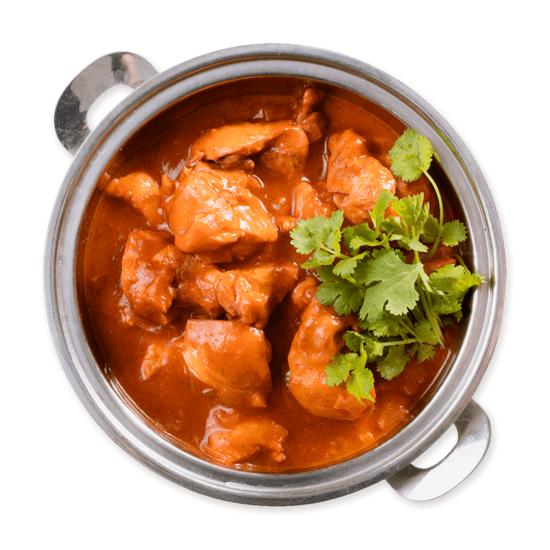
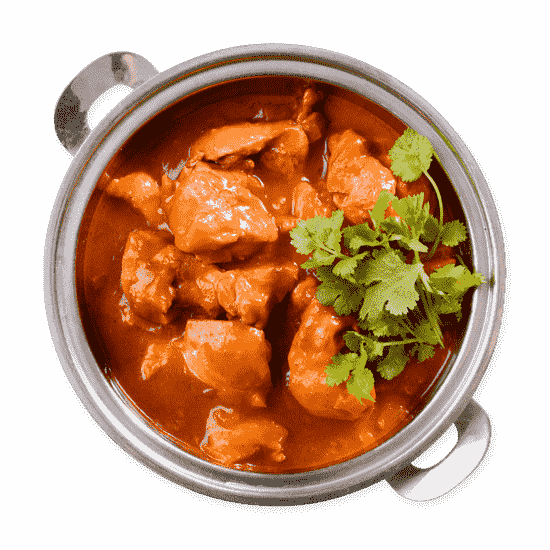
small change

diff --git a/src/screens/HomeScreen.js b/src/screens/HomeScreen.js
@@ -21,8 +21,6 @@ const Home = ({ navigation }) => {
         <RotiPuri />
         <Sabji />
         <Manshari />
-        <Manshari />
-        <Manshari />
       </View>
     </ScrollView>
   );
